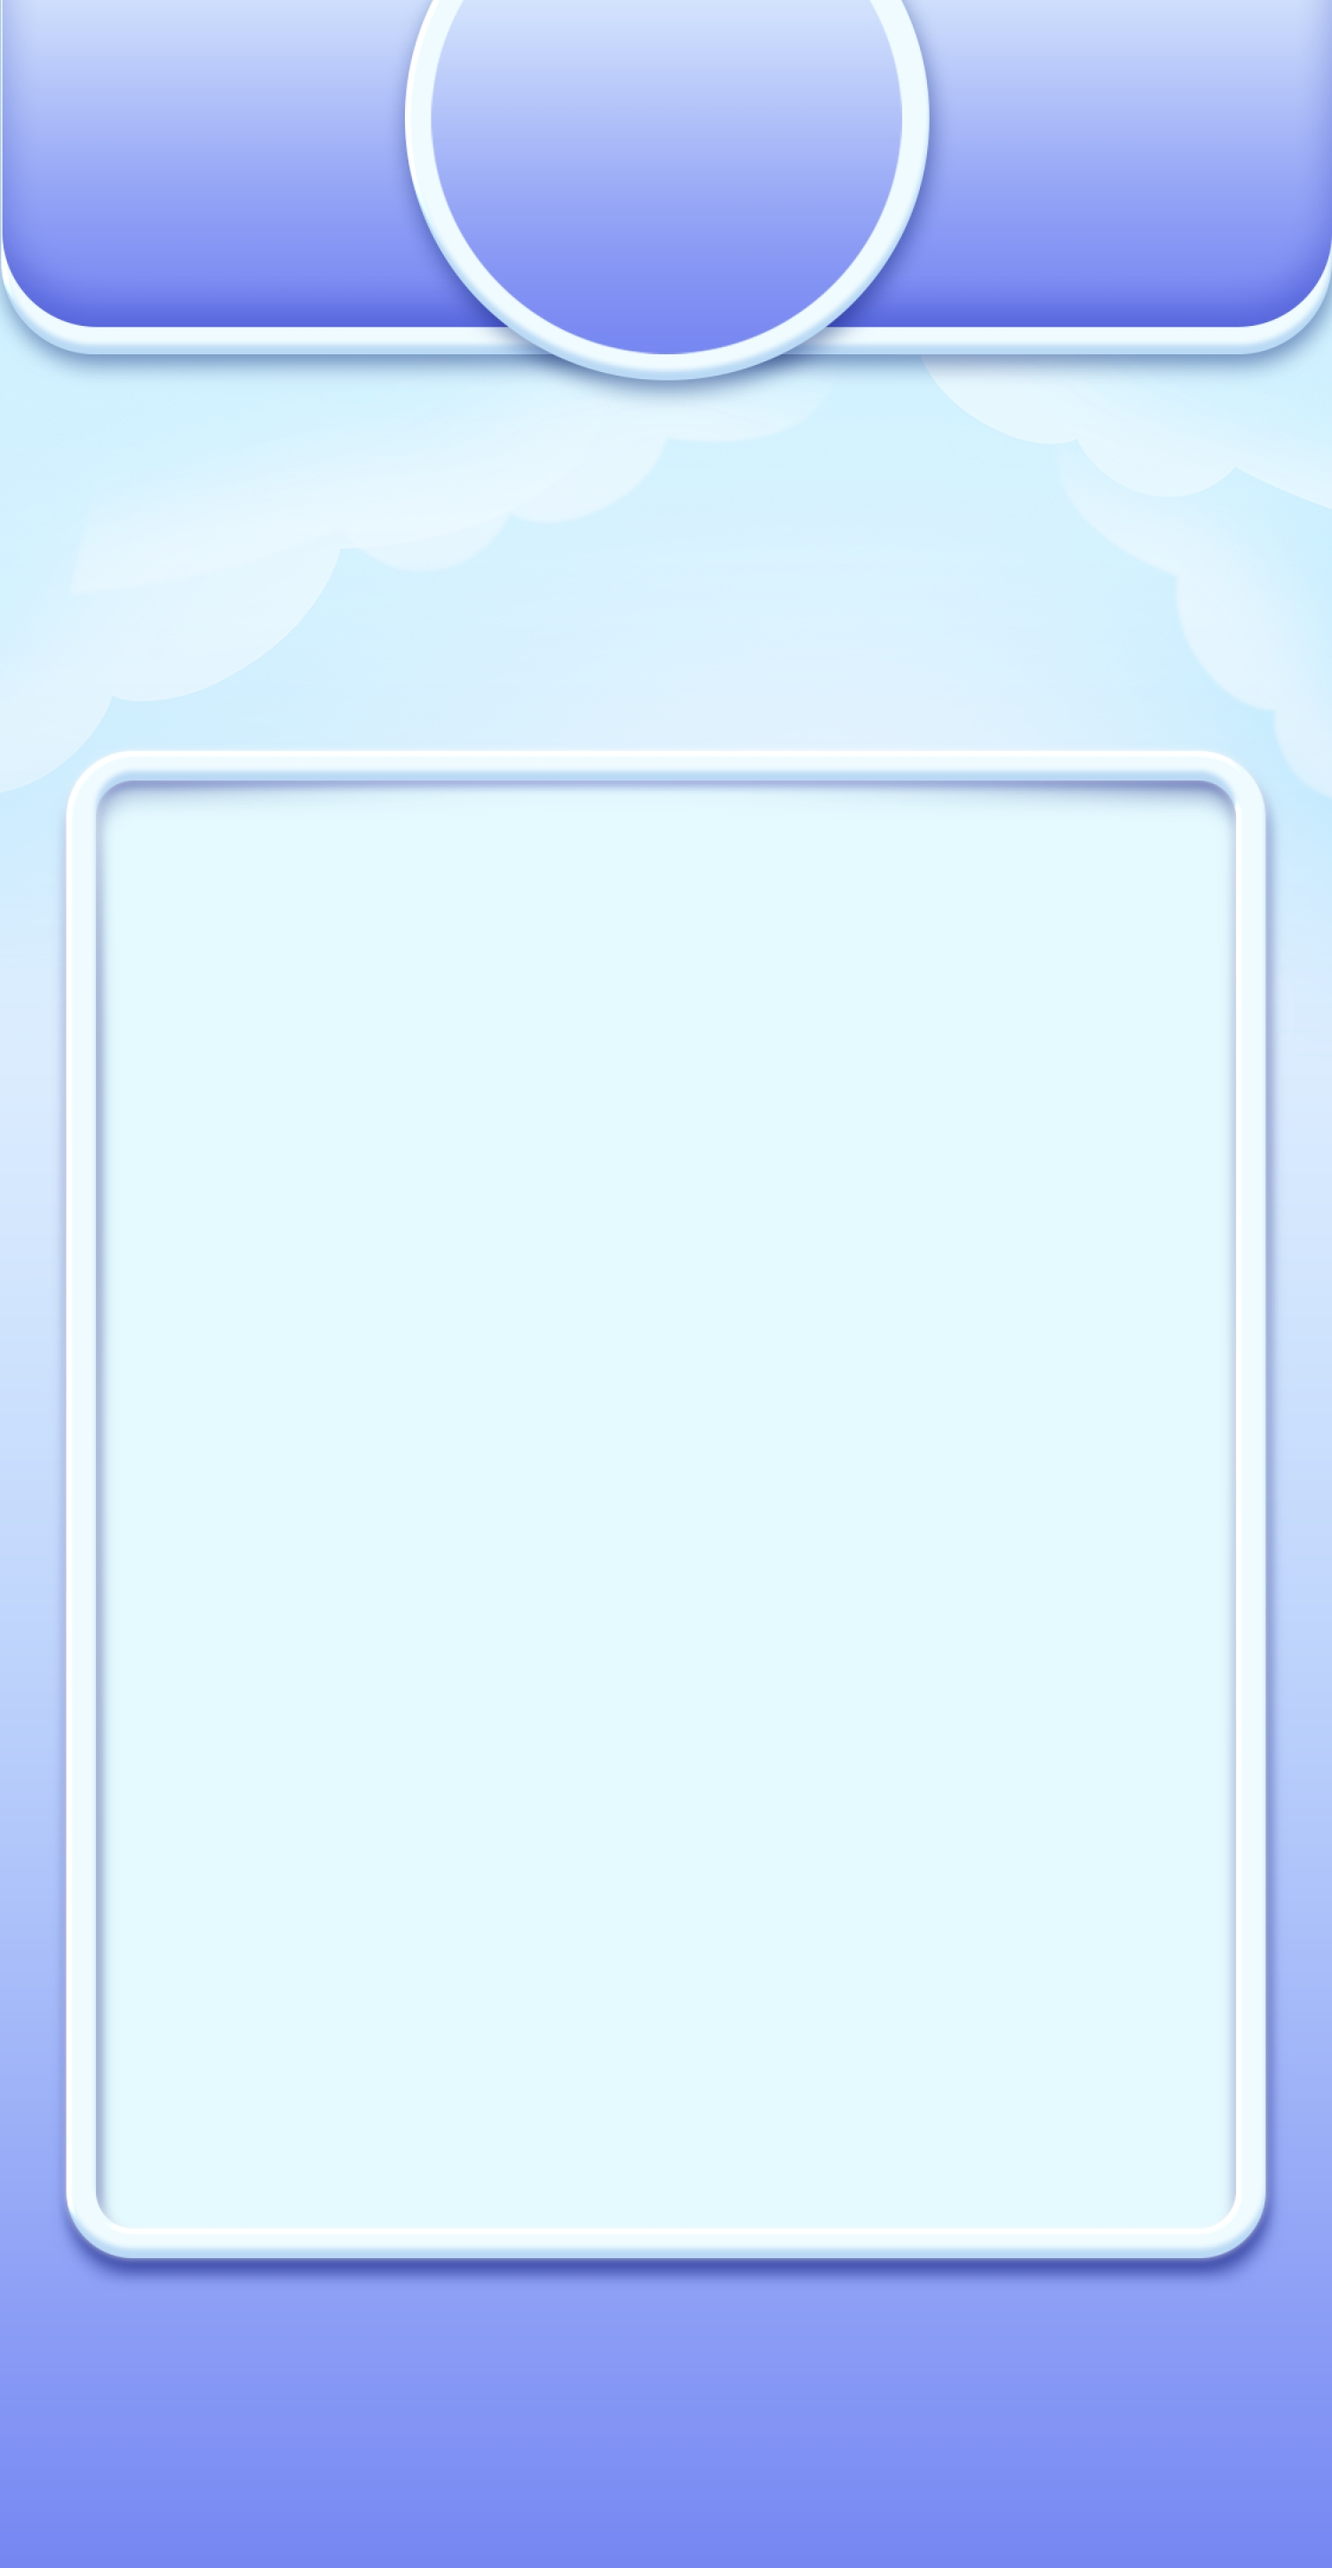
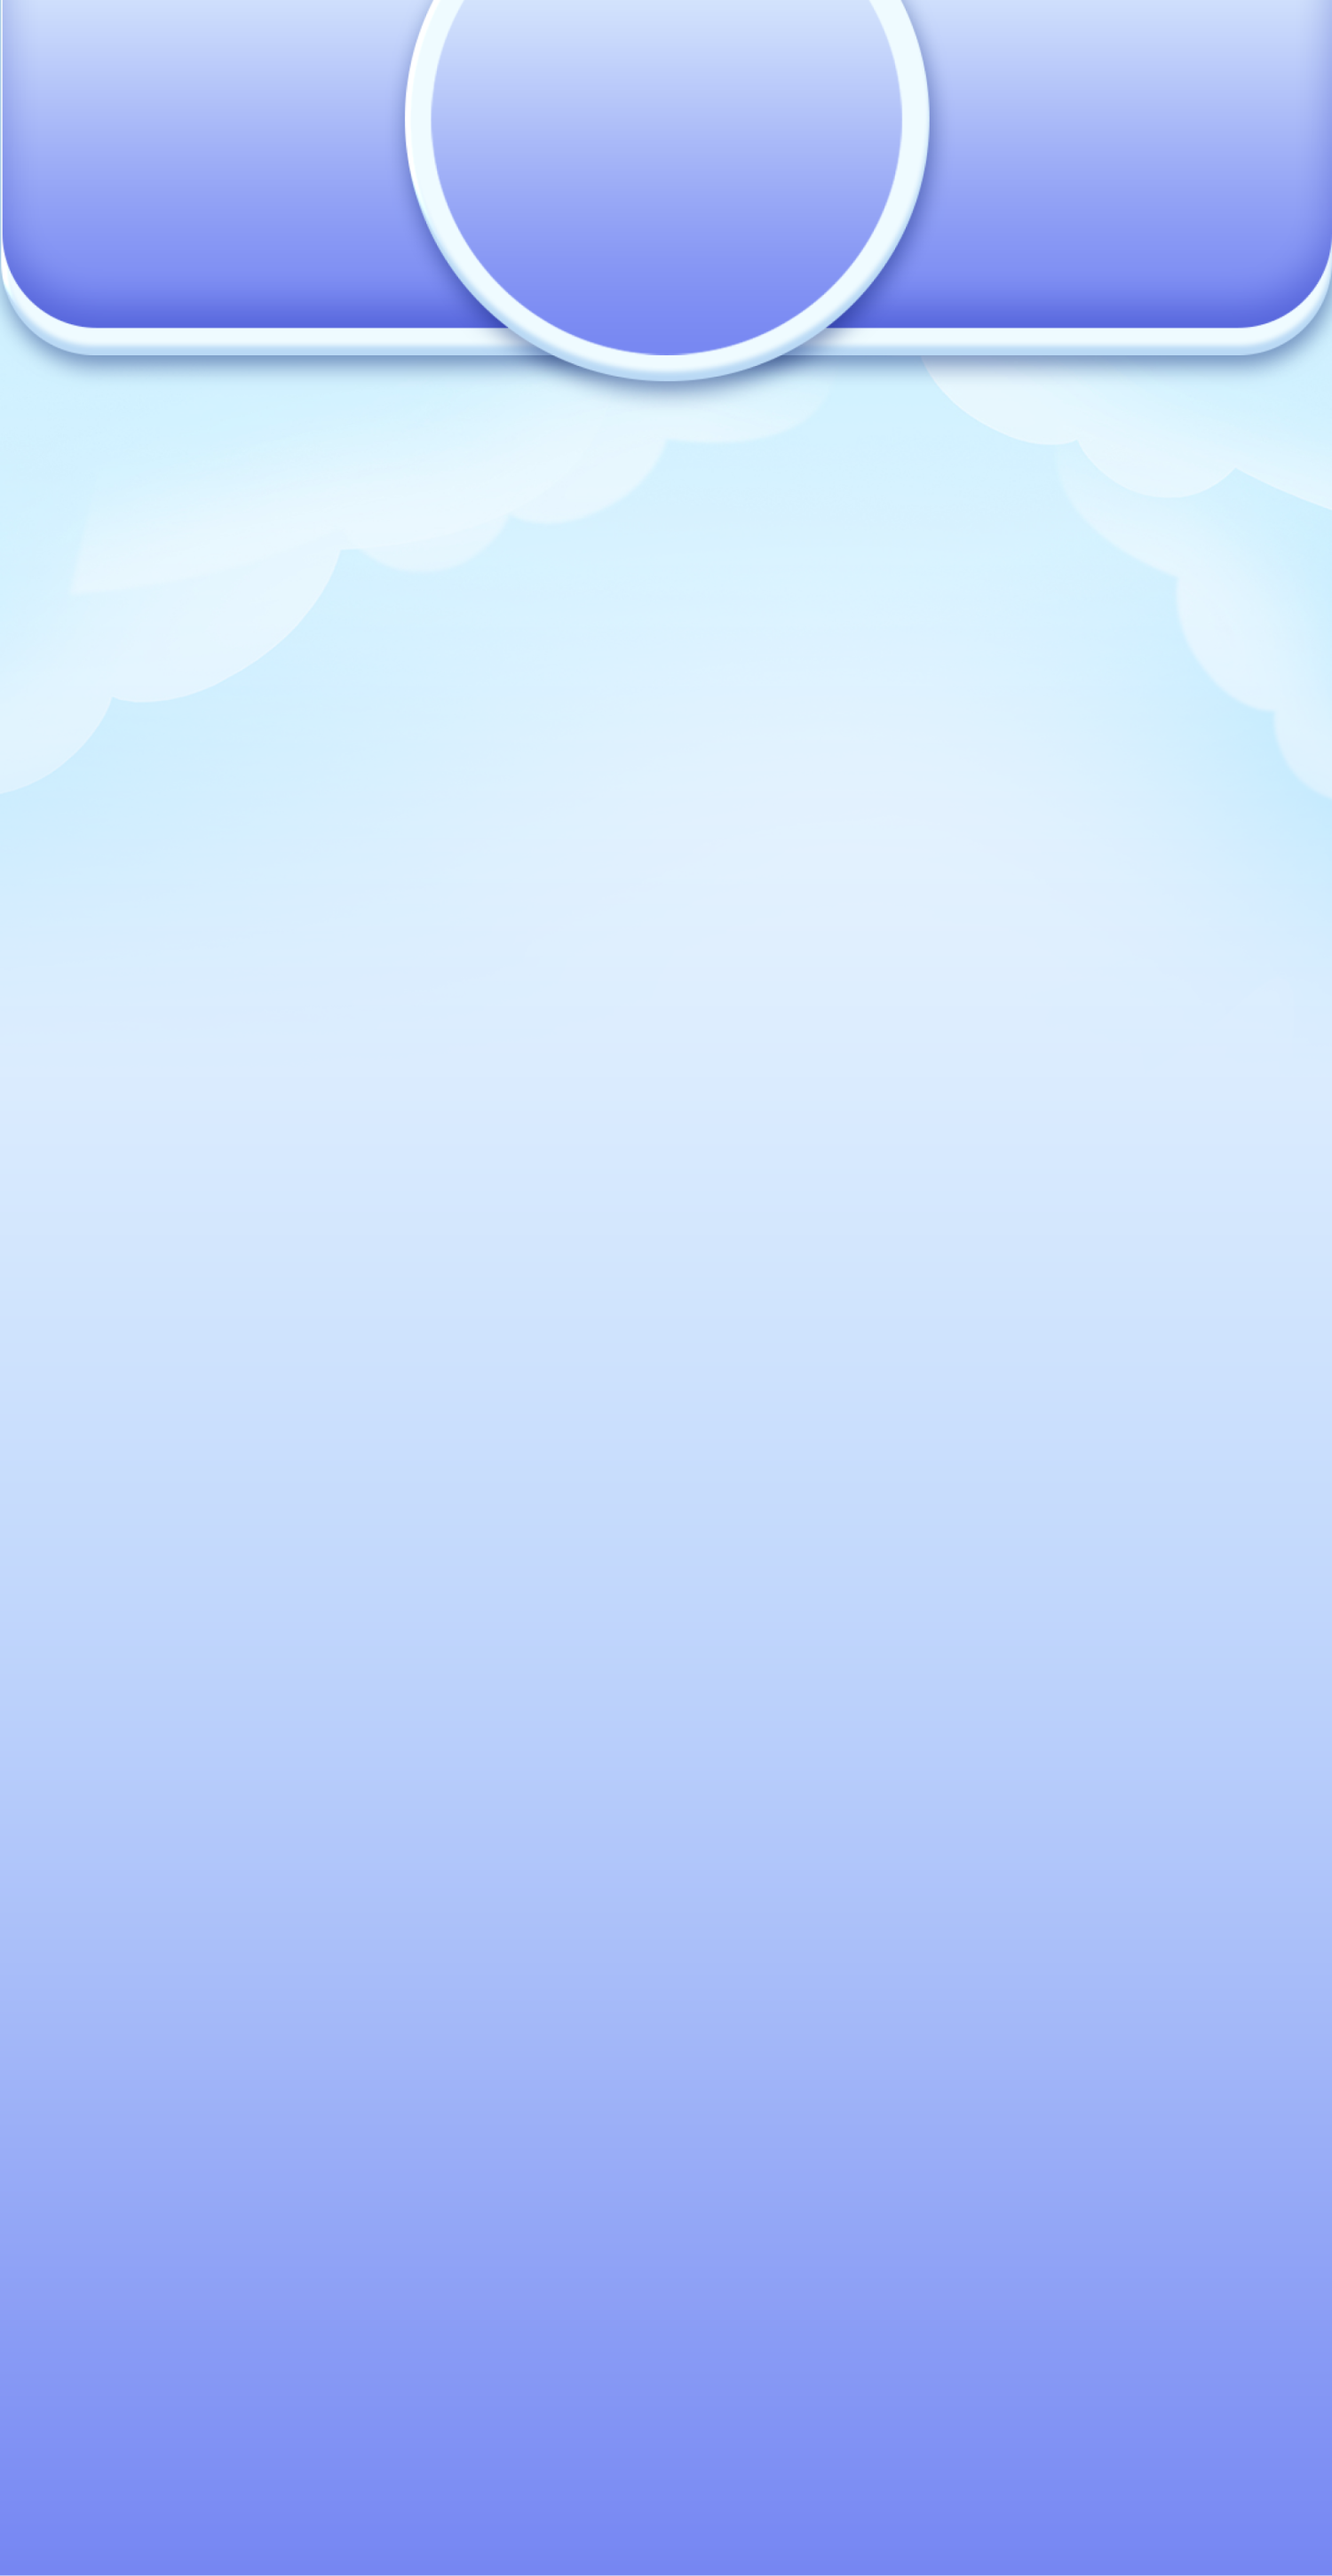
feat: update

diff --git a/puzzling-potions/src/screens/GameScreen.ts b/puzzling-potions/src/screens/GameScreen.ts
@@ -61,8 +61,14 @@ export class GameScreen extends Container {
     private bg: Sprite;
     private timeText: Label;
     private scoreText: Label;
+    private boxContainer: Sprite;
     constructor() {
         super();
+        this.boxContainer = new Sprite({
+            texture:Texture.from('game-container')
+          })
+          this.boxContainer.zIndex = 1
+         this.addChild(this.boxContainer)
         this.timeText = new Label('倒计时', {
             fontSize: 16,
             fill: 0xffffff,
@@ -98,7 +104,7 @@ export class GameScreen extends Container {
 
         this.gameContainer = new Container();
         this.addChild(this.gameContainer);
-
+        this.gameContainer.zIndex = 2
         this.shelf = new Shelf();
         this.gameContainer.addChild(this.shelf);
 
@@ -128,17 +134,19 @@ export class GameScreen extends Container {
 
         this.timer = new GameTimer();
         this.addChild(this.timer);
-
+        this.timer.zIndex = 4
         this.vfx = new GameEffects(this);
         this.addChild(this.vfx);
-
+        this.vfx.zIndex = 3
         this.countdown = new GameCountdown();
+        this.countdown.zIndex = 3
         this.addChild(this.countdown);
 
         this.overtime = new GameOvertime();
         this.addChild(this.overtime);
-
+        this.overtime.zIndex = 3
         this.timesUp = new GameTimesUp();
+        this.timesUp.zIndex = 3
         this.addChild(this.timesUp);
     }
 
@@ -149,7 +157,7 @@ export class GameScreen extends Container {
             columns: getUrlParamNumber('columns') ?? 7,
             tileSize: getUrlParamNumber('tileSize') ?? 50,
             freeMoves: getUrlParam('freeMoves') !== null,
-            duration: getUrlParamNumber('duration') ?? 60,
+            duration: getUrlParamNumber('duration') ?? 3,
             mode: (getUrlParam('mode') as Match3Mode) ?? userSettings.getGameMode(),
         });
 
@@ -224,6 +232,10 @@ export class GameScreen extends Container {
         this.timesUp.y = centerY;
         this.overtime.x = this.gameContainer.x;
         this.overtime.y = this.gameContainer.y;
+        this.boxContainer.x = this.gameContainer.x - this.gameContainer.width/2 -20
+        this.boxContainer.y = this.gameContainer.y - this.gameContainer.height/2 -15
+        this.boxContainer.width = this.gameContainer.width +40
+        this.boxContainer.height = this.gameContainer.height +35
     }
 
     /** Show screen with animations */

diff --git a/puzzling-potions/src/screens/ResultScreen.ts b/puzzling-potions/src/screens/ResultScreen.ts
@@ -92,7 +92,7 @@ export class ResultScreen extends Container {
     private goLotteryButton: GoLotteryBtn;
     // 再玩一次按钮
     private playAgainButton: PlayAgainBtn;
-    // private bg: Sprite;
+    private bg: Sprite;
     constructor() {
         super();
         // this.bg = new Sprite({
@@ -112,13 +112,15 @@ export class ResultScreen extends Container {
 
         this.panel = new Container();
         this.addChild(this.panel);
-
-        this.panelBase = Sprite.from('result-base');
+        this.bg = Sprite.from('hgf-result-bg')
+        this.bg.zIndex = 0
+        this.panelBase = Sprite.from('hgf-result-base');
         this.panelBase.anchor.set(0.5);
         this.panelBase.width = 380;
         this.panelBase.height = 280;
-        this.panel.addChild(this.panelBase);
 
+        this.panel.addChild(this.panelBase);
+        this.panel.addChild(this.bg);
         // 抽奖按钮
         this.goLotteryButton = new GoLotteryBtn({
             btnSrc: 'btn-go-lottery',
@@ -132,7 +134,6 @@ export class ResultScreen extends Container {
         this.title = new Label('', { fill: 0xffffff });
         this.title.y = -160;
         // this.panel.addChild(this.title);
-
         this.mode = new Label('', { fill: 0xffffff, fontSize: 12 });
         this.mode.y = -140;
         this.mode.alpha = 0.5;
@@ -229,7 +230,8 @@ export class ResultScreen extends Container {
         this.bottomBase.y = height - 100;
         this.settingsButton.x = width - 30;
         this.settingsButton.y = 30;
-       
+       this.bg.width = width
+       this.bg.height = height
     }
 
     /** Show screen with animations */

diff --git a/puzzling-potions/src/match3/Match3Config.ts b/puzzling-potions/src/match3/Match3Config.ts
@@ -10,15 +10,15 @@ export type Match3Mode = (typeof match3ValidModes)[number];
  */
 const blocks: Record<Match3Mode | 'special', string[]> = {
     /** Test mode piece set */
-    test: ['piece-dragon', 'piece-frog', 'piece-newt'],
+    test: ['hgf-piece-dragon', 'hgf-piece-frog', 'hgf-piece-newt'],
     /** Easy mode piece set */
-    easy: ['piece-dragon', 'piece-frog', 'piece-newt', 'piece-snake'],
+    easy: ['hgf-piece-dragon', 'hgf-piece-frog', 'hgf-piece-newt', 'hgf-piece-snake'],
     /** Normal mode piece set */
-    normal: ['piece-dragon', 'piece-frog', 'piece-newt', 'piece-snake', 'piece-spider'],
+    normal: ['hgf-piece-dragon', 'hgf-piece-frog', 'hgf-piece-newt', 'hgf-piece-snake', 'hgf-piece-spider'],
     /** Hard mode piece set */
-    hard: ['piece-dragon', 'piece-frog', 'piece-newt', 'piece-snake', 'piece-spider', 'piece-yeti'],
+    hard: ['hgf-piece-dragon', 'hgf-piece-frog', 'hgf-piece-newt', 'hgf-piece-snake', 'hgf-piece-spider', 'hgf-piece-yeti'],
     /** Special types that will be added to the game regardless the mode */
-    special: ['special-blast', 'special-row', 'special-column', 'special-colour'],
+    special: ['hgf-special-blast', 'hgf-special-row', 'hgf-special-column', 'hgf-special-colour'],
 };
 
 /** Default match3 configuration */

diff --git a/puzzling-potions/src/match3/Match3Special.ts b/puzzling-potions/src/match3/Match3Special.ts
@@ -25,13 +25,13 @@ export interface Match3SpecialHandlerConstructor {
 /** All available specials - handlers can be found inside `match3/specials/` folder */
 const availableSpecials: Record<string, Match3SpecialHandlerConstructor> = {
     /** Pops out the entire row */
-    'special-row': Match3SpecialRow,
+    'hgf-special-row': Match3SpecialRow,
     /** Pops out the entire column */
-    'special-column': Match3SpecialColumn,
+    'hgf-special-column': Match3SpecialColumn,
     /** Pops out all pieces of a single type */
-    'special-colour': Match3SpecialColour,
+    'hgf-special-colour': Match3SpecialColour,
     /** Pops out surrounding pieces */
-    'special-blast': Match3SpecialBlast,
+    'hgf-special-blast': Match3SpecialBlast,
 };
 
 /**
